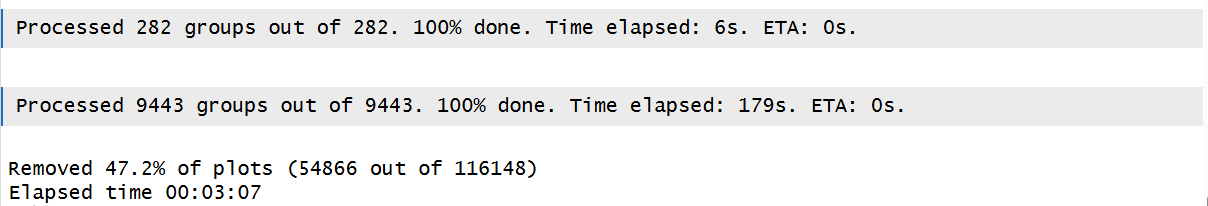
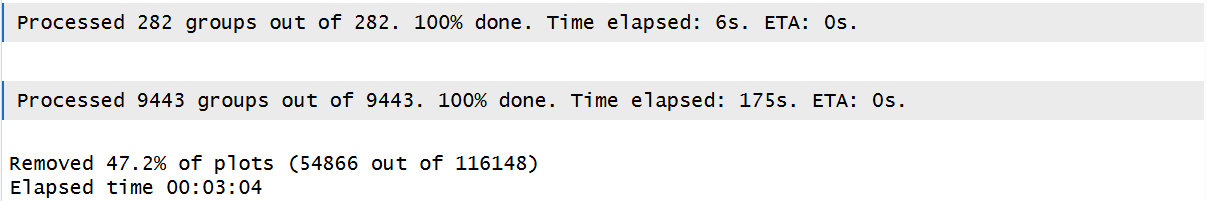
Sample resampling project added

diff --git a/docs/DataProcessingTutorial/data_resampling.html b/docs/DataProcessingTutorial/data_resampling.html
@@ -268,6 +268,7 @@ pre > code.sourceCode > span > a:first-child::before { text-decoration: underlin
   <li><a href="#introduction" id="toc-introduction" class="nav-link active" data-scroll-target="#introduction">Introduction</a></li>
   <li><a href="#data" id="toc-data" class="nav-link" data-scroll-target="#data">Data</a></li>
   <li><a href="#resampling" id="toc-resampling" class="nav-link" data-scroll-target="#resampling">Resampling</a></li>
+  <li><a href="#sample-project" id="toc-sample-project" class="nav-link" data-scroll-target="#sample-project">Sample project</a></li>
   </ul>
 </nav>
     </div>
@@ -397,6 +398,10 @@ pre > code.sourceCode > span > a:first-child::before { text-decoration: underlin
 <p><img src="images/result.png" class="img-fluid" width="379"></p>
 <p>As shown below, the density of plots in intensively sampled areas decreased considerably. This dataset is provided as <a href="https://czechveg.github.io/Data/czech_veg_openstrat.html"><strong>CzechVeg-Open-Strat</strong></a>.</p>
 <p><img src="images/CzechVeg_allPlots_vs_strat.png" class="img-fluid"></p>
+</section>
+<section id="sample-project" class="level1">
+<h1>Sample project</h1>
+<p>If you want to try resampling with a smaller dataset, you can download the zip file of the <a href="https://github.com/CzechVeg/CzechVeg.github.io/blob/main/DataProcessingTutorial/data/CzechVeg_ResamplingExample.zip">R project</a>, which includes the codes and two sample datasets: a smaller one with 4,788 plots and a larger one with 15,980 plots from two different regions of the Czech Republic.</p>
 
 
 </section>
